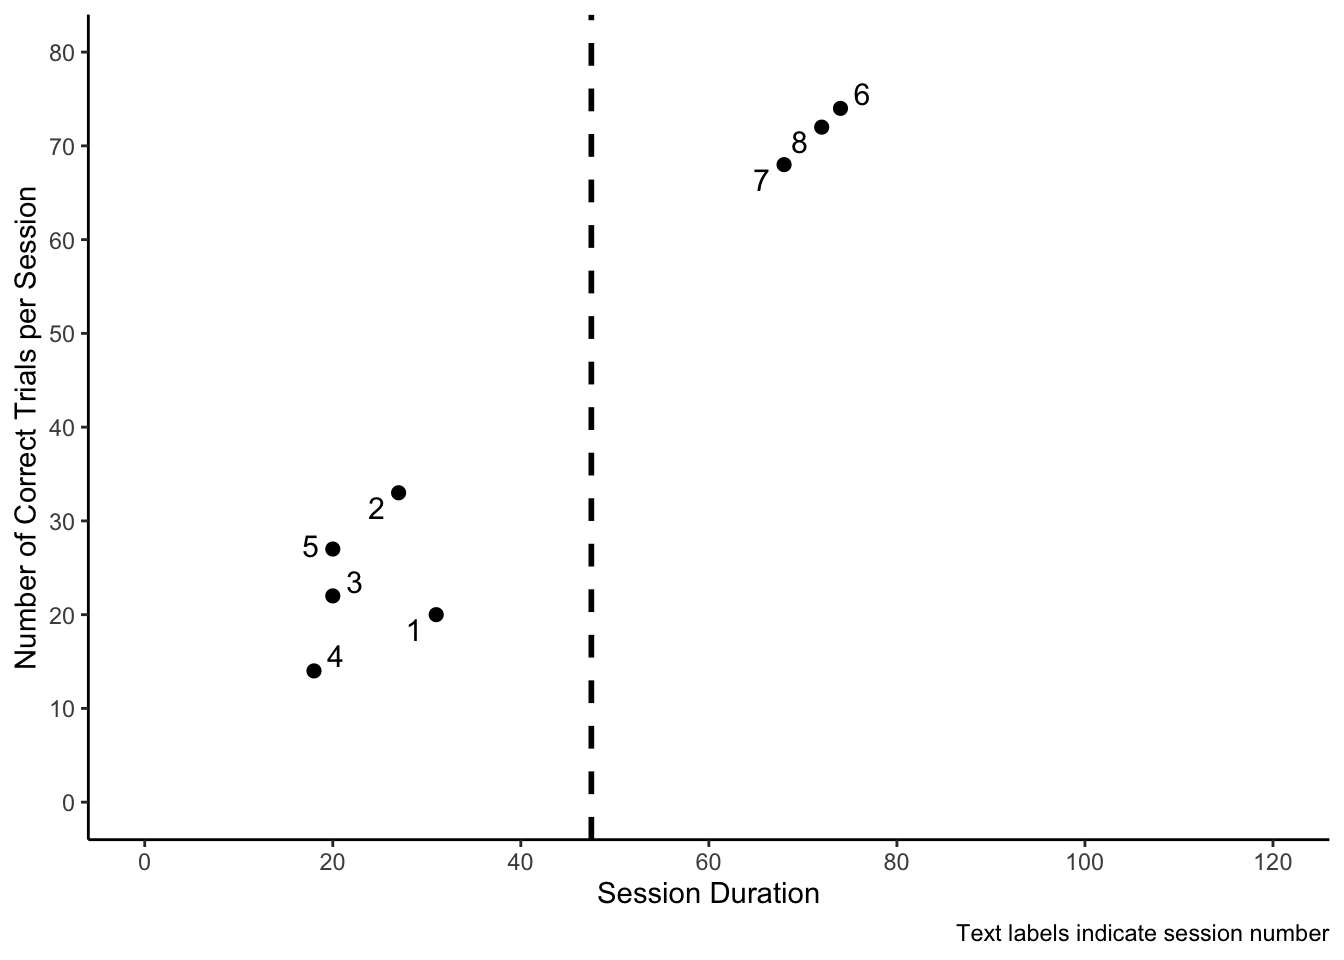
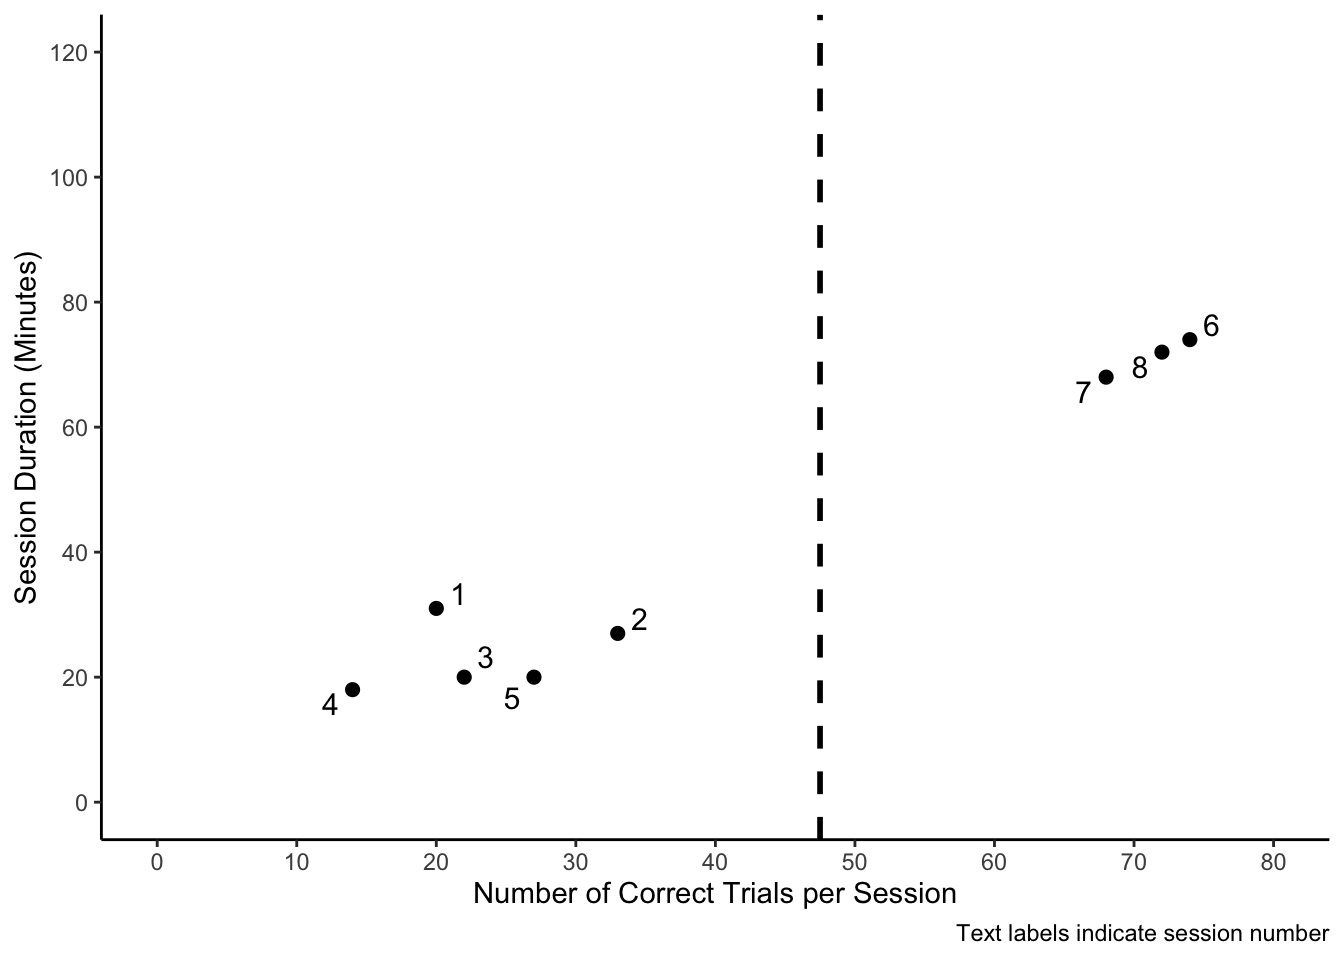
plot axes adjusted

diff --git a/duration.html b/duration.html
@@ -376,7 +376,7 @@ div.tocify {
 </div>
 <div id="endurance-and-accuracy-relationship-plots" class="section level2">
 <h2>Endurance and Accuracy Relationship Plots</h2>
-<p>These scatter plots display the linear relationship between session duration and the number of correct trials observed per session. These plots appear to be a good representation of treatment endurance.</p>
+<p>These scatter plots display the linear relationship between session duration and the number of correct trials observed per session. These plots appear to be a good representation of treatment endurance. The number of correct trials is outlined as the x-axis and can be interpreted as a strong predictor of session duration (minutes), suggesting that session duration was dependent upon the number of correct trials the participant obtained per session.</p>
 <div id="saje-1" class="section level3">
 <h3>SAJE</h3>
 <p><img src="duration_files/figure-html/unnamed-chunk-8-1.png" width="672" /></p>
@@ -394,18 +394,18 @@ div.tocify {
 <h2>Phase Averages</h2>
 <div id="saje-2" class="section level3">
 <h3>SAJE</h3>
-<div id="htmlwidget-3576cfe4e3d7d281d361" class="reactable html-widget" style="width:auto;height:auto;"></div>
-<script type="application/json" data-for="htmlwidget-3576cfe4e3d7d281d361">{"x":{"tag":{"name":"Reactable","attribs":{"data":{"mean_bl_duration":[34],"mean_tx_duration":[89],"mean_bl_correct":[46.67],"mean_tx_correct":[115]},"columns":[{"accessor":"mean_bl_duration","name":"Average Baseline Session Duration","type":"numeric","format":{"cell":{"suffix":" minutes"},"aggregated":{"suffix":" minutes"}}},{"accessor":"mean_tx_duration","name":"Average Intervention Session Duration","type":"numeric","format":{"cell":{"suffix":" minutes"},"aggregated":{"suffix":" minutes"}}},{"accessor":"mean_bl_correct","name":"Average Number of Trials Correct per Baseline Session","type":"numeric"},{"accessor":"mean_tx_correct","name":"Average Number of Trials Correct per Intervention Session","type":"numeric"}],"defaultPageSize":10,"paginationType":"numbers","showPageInfo":true,"minRows":1,"highlight":true,"outlined":true,"bordered":true,"striped":true,"compact":true,"dataKey":"f79e24a767ba8b05f3df25986c869767","key":"f79e24a767ba8b05f3df25986c869767"},"children":[]},"class":"reactR_markup"},"evals":[],"jsHooks":[]}</script>
+<div id="htmlwidget-6edfc14227eef68bae2d" class="reactable html-widget" style="width:auto;height:auto;"></div>
+<script type="application/json" data-for="htmlwidget-6edfc14227eef68bae2d">{"x":{"tag":{"name":"Reactable","attribs":{"data":{"mean_bl_duration":[34],"mean_tx_duration":[89],"mean_bl_correct":[46.67],"mean_tx_correct":[115]},"columns":[{"accessor":"mean_bl_duration","name":"Average Baseline Session Duration","type":"numeric","format":{"cell":{"suffix":" minutes"},"aggregated":{"suffix":" minutes"}}},{"accessor":"mean_tx_duration","name":"Average Intervention Session Duration","type":"numeric","format":{"cell":{"suffix":" minutes"},"aggregated":{"suffix":" minutes"}}},{"accessor":"mean_bl_correct","name":"Average Number of Trials Correct per Baseline Session","type":"numeric"},{"accessor":"mean_tx_correct","name":"Average Number of Trials Correct per Intervention Session","type":"numeric"}],"defaultPageSize":10,"paginationType":"numbers","showPageInfo":true,"minRows":1,"highlight":true,"outlined":true,"bordered":true,"striped":true,"compact":true,"dataKey":"f79e24a767ba8b05f3df25986c869767","key":"f79e24a767ba8b05f3df25986c869767"},"children":[]},"class":"reactR_markup"},"evals":[],"jsHooks":[]}</script>
 </div>
 <div id="leli-2" class="section level3">
 <h3>LELI</h3>
-<div id="htmlwidget-6890c4fa92811c0ab2d3" class="reactable html-widget" style="width:auto;height:auto;"></div>
-<script type="application/json" data-for="htmlwidget-6890c4fa92811c0ab2d3">{"x":{"tag":{"name":"Reactable","attribs":{"data":{"mean_bl_duration":[23.2],"mean_tx_duration":[71.33],"mean_bl_correct":[23.2],"mean_tx_correct":[71.33]},"columns":[{"accessor":"mean_bl_duration","name":"Average Baseline Session Duration","type":"numeric","format":{"cell":{"suffix":" minutes"},"aggregated":{"suffix":" minutes"}}},{"accessor":"mean_tx_duration","name":"Average Intervention Session Duration","type":"numeric","format":{"cell":{"suffix":" minutes"},"aggregated":{"suffix":" minutes"}}},{"accessor":"mean_bl_correct","name":"Average Number of Trials Correct per Baseline Session","type":"numeric"},{"accessor":"mean_tx_correct","name":"Average Number of Trials Correct per Intervention Session","type":"numeric"}],"defaultPageSize":10,"paginationType":"numbers","showPageInfo":true,"minRows":1,"highlight":true,"outlined":true,"bordered":true,"striped":true,"compact":true,"dataKey":"e428f7f70bdd37e5c9db113df7145565","key":"e428f7f70bdd37e5c9db113df7145565"},"children":[]},"class":"reactR_markup"},"evals":[],"jsHooks":[]}</script>
+<div id="htmlwidget-71802a44326944597c79" class="reactable html-widget" style="width:auto;height:auto;"></div>
+<script type="application/json" data-for="htmlwidget-71802a44326944597c79">{"x":{"tag":{"name":"Reactable","attribs":{"data":{"mean_bl_duration":[23.2],"mean_tx_duration":[71.33],"mean_bl_correct":[23.2],"mean_tx_correct":[71.33]},"columns":[{"accessor":"mean_bl_duration","name":"Average Baseline Session Duration","type":"numeric","format":{"cell":{"suffix":" minutes"},"aggregated":{"suffix":" minutes"}}},{"accessor":"mean_tx_duration","name":"Average Intervention Session Duration","type":"numeric","format":{"cell":{"suffix":" minutes"},"aggregated":{"suffix":" minutes"}}},{"accessor":"mean_bl_correct","name":"Average Number of Trials Correct per Baseline Session","type":"numeric"},{"accessor":"mean_tx_correct","name":"Average Number of Trials Correct per Intervention Session","type":"numeric"}],"defaultPageSize":10,"paginationType":"numbers","showPageInfo":true,"minRows":1,"highlight":true,"outlined":true,"bordered":true,"striped":true,"compact":true,"dataKey":"e428f7f70bdd37e5c9db113df7145565","key":"e428f7f70bdd37e5c9db113df7145565"},"children":[]},"class":"reactR_markup"},"evals":[],"jsHooks":[]}</script>
 </div>
 <div id="leli-3" class="section level3">
 <h3>LELI</h3>
-<div id="htmlwidget-732388ec7fd2fe4f093e" class="reactable html-widget" style="width:auto;height:auto;"></div>
-<script type="application/json" data-for="htmlwidget-732388ec7fd2fe4f093e">{"x":{"tag":{"name":"Reactable","attribs":{"data":{"mean_bl_duration":[37.5],"mean_tx_duration":[119],"mean_bl_correct":[96.5],"mean_tx_correct":[210.67]},"columns":[{"accessor":"mean_bl_duration","name":"Average Baseline Session Duration","type":"numeric","format":{"cell":{"suffix":" minutes"},"aggregated":{"suffix":" minutes"}}},{"accessor":"mean_tx_duration","name":"Average Intervention Session Duration","type":"numeric","format":{"cell":{"suffix":" minutes"},"aggregated":{"suffix":" minutes"}}},{"accessor":"mean_bl_correct","name":"Average Number of Trials Correct per Baseline Session","type":"numeric"},{"accessor":"mean_tx_correct","name":"Average Number of Trials Correct per Intervention Session","type":"numeric"}],"defaultPageSize":10,"paginationType":"numbers","showPageInfo":true,"minRows":1,"highlight":true,"outlined":true,"bordered":true,"striped":true,"compact":true,"dataKey":"66e90904aac7943da9930239c4d9d9b6","key":"66e90904aac7943da9930239c4d9d9b6"},"children":[]},"class":"reactR_markup"},"evals":[],"jsHooks":[]}</script>
+<div id="htmlwidget-f76e818d700f7521efc1" class="reactable html-widget" style="width:auto;height:auto;"></div>
+<script type="application/json" data-for="htmlwidget-f76e818d700f7521efc1">{"x":{"tag":{"name":"Reactable","attribs":{"data":{"mean_bl_duration":[37.5],"mean_tx_duration":[119],"mean_bl_correct":[96.5],"mean_tx_correct":[210.67]},"columns":[{"accessor":"mean_bl_duration","name":"Average Baseline Session Duration","type":"numeric","format":{"cell":{"suffix":" minutes"},"aggregated":{"suffix":" minutes"}}},{"accessor":"mean_tx_duration","name":"Average Intervention Session Duration","type":"numeric","format":{"cell":{"suffix":" minutes"},"aggregated":{"suffix":" minutes"}}},{"accessor":"mean_bl_correct","name":"Average Number of Trials Correct per Baseline Session","type":"numeric"},{"accessor":"mean_tx_correct","name":"Average Number of Trials Correct per Intervention Session","type":"numeric"}],"defaultPageSize":10,"paginationType":"numbers","showPageInfo":true,"minRows":1,"highlight":true,"outlined":true,"bordered":true,"striped":true,"compact":true,"dataKey":"66e90904aac7943da9930239c4d9d9b6","key":"66e90904aac7943da9930239c4d9d9b6"},"children":[]},"class":"reactR_markup"},"evals":[],"jsHooks":[]}</script>
 </div>
 </div>
 
